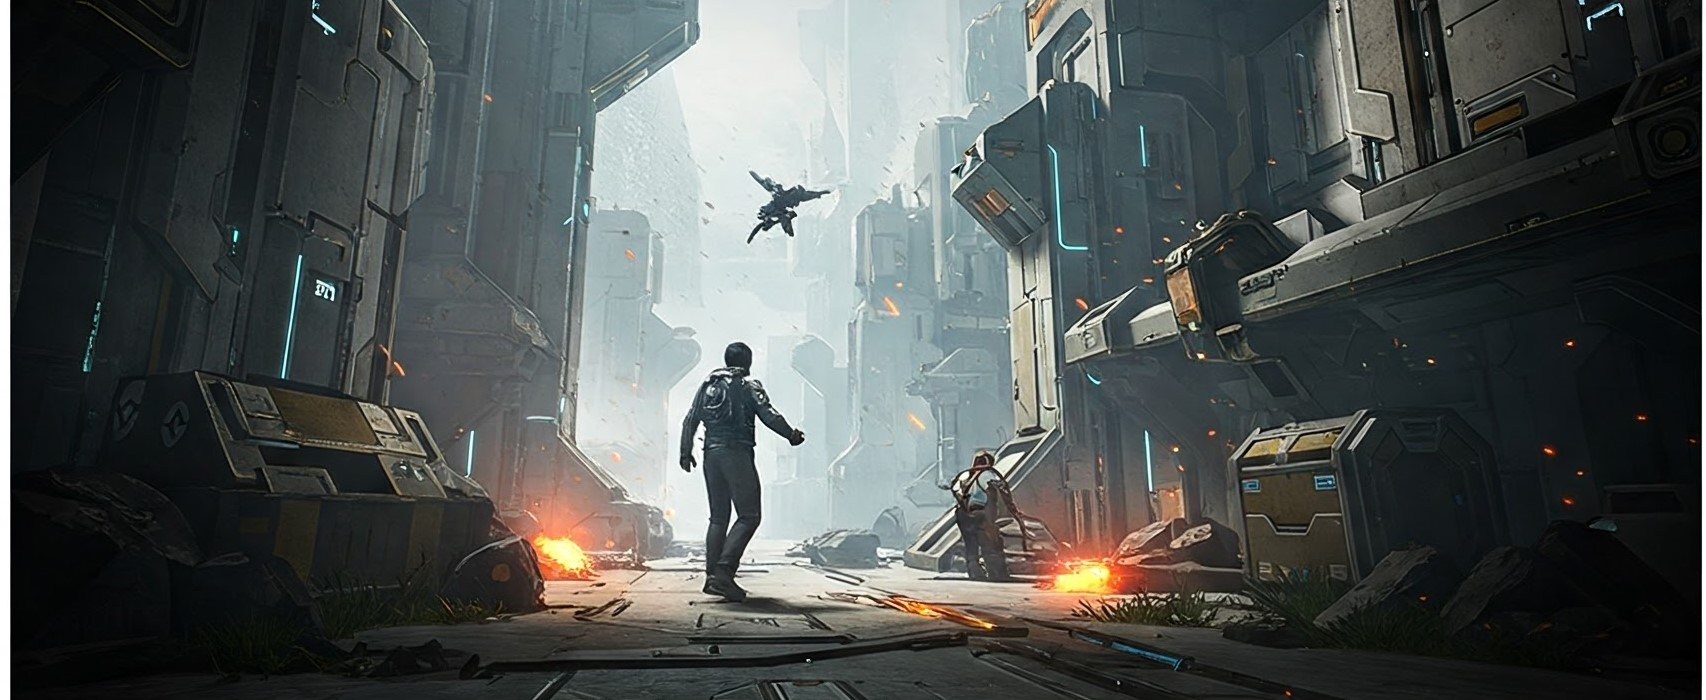
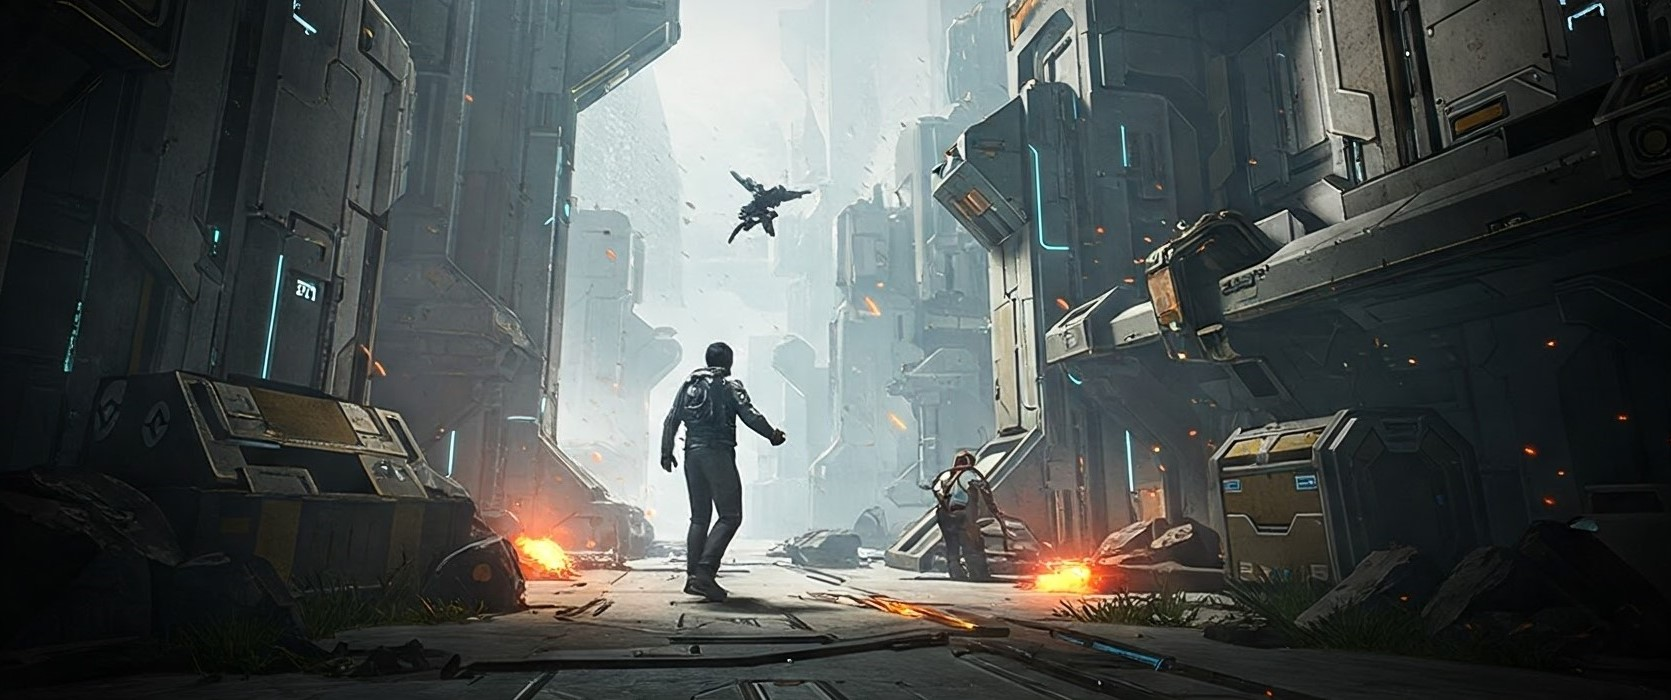
Carrosel
Colocando novas imagens, legendas etc

diff --git a/html_css/index.html b/html_css/index.html
@@ -37,10 +37,10 @@
         </div>
           <div class="carousel-inner">
             <div class="carousel-item active">
-              <img src="img/img-principal.jpg" class="d-block w-100" alt="Imagem de um jogo">
+              <img src="img/img-principal1.0.jpg" class="d-block w-100" alt="Imagem de um jogo">
               <div class="carousel-caption custom-caption">
                 <h5>O MAIS ESPERADO <br>DE TODOS</br></h5>
-                <strong>O jogo que todo mundo está <br>esperando!</br></strong>
+                <strong>O jogo que todo mundo está <br>esperando!</strong>
                 <p>Venha ver o detalhe do novo jogo de<br>ficção científica com um final que vai</br>explodir a sua cabeça!</p>
                 <svg xmlns="http://www.w3.org/2000/svg" width="16" height="16" fill="currentColor" class="bi bi-controller" viewBox="0 0 16 16">
                   <path d="M11.5 6.027a.5.5 0 1 1-1 0 .5.5 0 0 1 1 0m-1.5 1.5a.5.5 0 1 0 0-1 .5.5 0 0 0 0 1m2.5-.5a.5.5 0 1 1-1 0 .5.5 0 0 1 1 0m-1.5 1.5a.5.5 0 1 0 0-1 .5.5 0 0 0 0 1m-6.5-3h1v1h1v1h-1v1h-1v-1h-1v-1h1z"/>
@@ -50,17 +50,29 @@
               </div>
             </div>
             <div class="carousel-item">
-              <img src="img/img-principal.jpg" class="d-block w-100" alt="imagem de um jogo">
-              <div class="carousel-caption">
-                <h5>Second slide label</h5>
-                <p>Some representative placeholder content for the second slide.</p>
+              <img src="img/img-principal2.0.png" class="d-block w-100" alt="imagem de um jogo">
+              <div class="carousel-caption custom-caption">
+                <h5>DESCONHECIDO E <br>GENIAL</h5>
+                <strong>A inovação indie que você não <br>conhece!</strong>
+                <p>Prepare-se para descobrir o jogo indie que <br>vai surpreender você com ideias frescas  e <br>uma experiência inesquecível!</p>
+                <svg xmlns="http://www.w3.org/2000/svg" width="16" height="16" fill="currentColor" class="bi bi-controller" viewBox="0 0 16 16">
+                    <path d="M11.5 6.027a.5.5 0 1 1-1 0 .5.5 0 0 1 1 0m-1.5 1.5a.5.5 0 1 0 0-1 .5.5 0 0 0 0 1m2.5-.5a.5.5 0 1 1-1 0 .5.5 0 0 1 1 0m-1.5 1.5a.5.5 0 1 0 0-1 .5.5 0 0 0 0 1m-6.5-3h1v1h1v1h-1v1h-1v-1h-1v-1h1z"/>
+                    <path d="M3.051 3.26a.5.5 0 0 1 .354-.613l1.932-.518a.5.5 0 0 1 .62.39c.655-.079 1.35-.117 2.043-.117.72 0 1.443.041 2.12.126a.5.5 0 0 1 .622-.399l1.932.518a.5.5 0 0 1 .306.729q.211.136.373.297c.408.408.78 1.05 1.095 1.772.32.733.599 1.591.805 2.466s.34 1.78.364 2.606c.024.816-.059 1.602-.328 2.21a1.42 1.42 0 0 1-1.445.83c-.636-.067-1.115-.394-1.513-.773-.245-.232-.496-.526-.739-.808-.126-.148-.25-.292-.368-.423-.728-.804-1.597-1.527-3.224-1.527s-2.496.723-3.224 1.527c-.119.131-.242.275-.368.423-.243.282-.494.575-.739.808-.398.38-.877.706-1.513.773a1.42 1.42 0 0 1-1.445-.83c-.27-.608-.352-1.395-.329-2.21.024-.826.16-1.73.365-2.606.206-.875.486-1.733.805-2.466.315-.722.687-1.364 1.094-1.772a2.3 2.3 0 0 1 .433-.335l-.028-.079zm2.036.412c-.877.185-1.469.443-1.733.708-.276.276-.587.783-.885 1.465a14 14 0 0 0-.748 2.295 12.4 12.4 0 0 0-.339 2.406c-.022.755.062 1.368.243 1.776a.42.42 0 0 0 .426.24c.327-.034.61-.199.929-.502.212-.202.4-.423.615-.674.133-.156.276-.323.44-.504C4.861 9.969 5.978 9.027 8 9.027s3.139.942 3.965 1.855c.164.181.307.348.44.504.214.251.403.472.615.674.318.303.601.468.929.503a.42.42 0 0 0 .426-.241c.18-.408.265-1.02.243-1.776a12.4 12.4 0 0 0-.339-2.406 14 14 0 0 0-.748-2.295c-.298-.682-.61-1.19-.885-1.465-.264-.265-.856-.523-1.733-.708-.85-.179-1.877-.27-2.913-.27s-2.063.091-2.913.27"/>
+                  </svg>
+                  <a class="especificacoes" href="#">Especificações</a>
               </div>
             </div>
             <div class="carousel-item">
-              <img src="img/img-principal.jpg" class="d-block w-100" alt="imagem de um jogo">
-              <div class="carousel-caption">
-                <h5>Third slide label</h5>
-                <p>Some representative placeholder content for the third slide.</p>
+              <img src="img/img-principal3.0.png" class="d-block w-100" alt="imagem de um jogo">
+              <div class="carousel-caption custom-caption">
+                <h5>O MAIS VENDIDO <br>DE TODOS</h5>
+                <strong>O jogo mais vendido de todos <br>os tempos!</strong>
+                <p>O fenômeno global que redefiniu os jogos de <br> mundo aberto! Com incríveis +500 MILHÕES <br> de cópias vendidas, ele se consagra como o <br> campeão absoluto!</p>
+                <svg xmlns="http://www.w3.org/2000/svg" width="16" height="16" fill="currentColor" class="bi bi-controller" viewBox="0 0 16 16">
+                    <path d="M11.5 6.027a.5.5 0 1 1-1 0 .5.5 0 0 1 1 0m-1.5 1.5a.5.5 0 1 0 0-1 .5.5 0 0 0 0 1m2.5-.5a.5.5 0 1 1-1 0 .5.5 0 0 1 1 0m-1.5 1.5a.5.5 0 1 0 0-1 .5.5 0 0 0 0 1m-6.5-3h1v1h1v1h-1v1h-1v-1h-1v-1h1z"/>
+                    <path d="M3.051 3.26a.5.5 0 0 1 .354-.613l1.932-.518a.5.5 0 0 1 .62.39c.655-.079 1.35-.117 2.043-.117.72 0 1.443.041 2.12.126a.5.5 0 0 1 .622-.399l1.932.518a.5.5 0 0 1 .306.729q.211.136.373.297c.408.408.78 1.05 1.095 1.772.32.733.599 1.591.805 2.466s.34 1.78.364 2.606c.024.816-.059 1.602-.328 2.21a1.42 1.42 0 0 1-1.445.83c-.636-.067-1.115-.394-1.513-.773-.245-.232-.496-.526-.739-.808-.126-.148-.25-.292-.368-.423-.728-.804-1.597-1.527-3.224-1.527s-2.496.723-3.224 1.527c-.119.131-.242.275-.368.423-.243.282-.494.575-.739.808-.398.38-.877.706-1.513.773a1.42 1.42 0 0 1-1.445-.83c-.27-.608-.352-1.395-.329-2.21.024-.826.16-1.73.365-2.606.206-.875.486-1.733.805-2.466.315-.722.687-1.364 1.094-1.772a2.3 2.3 0 0 1 .433-.335l-.028-.079zm2.036.412c-.877.185-1.469.443-1.733.708-.276.276-.587.783-.885 1.465a14 14 0 0 0-.748 2.295 12.4 12.4 0 0 0-.339 2.406c-.022.755.062 1.368.243 1.776a.42.42 0 0 0 .426.24c.327-.034.61-.199.929-.502.212-.202.4-.423.615-.674.133-.156.276-.323.44-.504C4.861 9.969 5.978 9.027 8 9.027s3.139.942 3.965 1.855c.164.181.307.348.44.504.214.251.403.472.615.674.318.303.601.468.929.503a.42.42 0 0 0 .426-.241c.18-.408.265-1.02.243-1.776a12.4 12.4 0 0 0-.339-2.406 14 14 0 0 0-.748-2.295c-.298-.682-.61-1.19-.885-1.465-.264-.265-.856-.523-1.733-.708-.85-.179-1.877-.27-2.913-.27s-2.063.091-2.913.27"/>
+                  </svg>
+                  <a class="especificacoes" href="#">Especificações</a>
               </div>
             </div>
           </div>

diff --git a/html_css/style.css b/html_css/style.css
@@ -246,7 +246,7 @@ a:hover::after {
 }
 /*Centralizando Carrosel*/
 #carouselExampleCaptions{
-    max-width: 1150px; /* Largura máxima */
+    max-width: 1250px; /* Largura máxima */
     margin: 0 auto; /* Centraliza o carrossel */
 }
 
